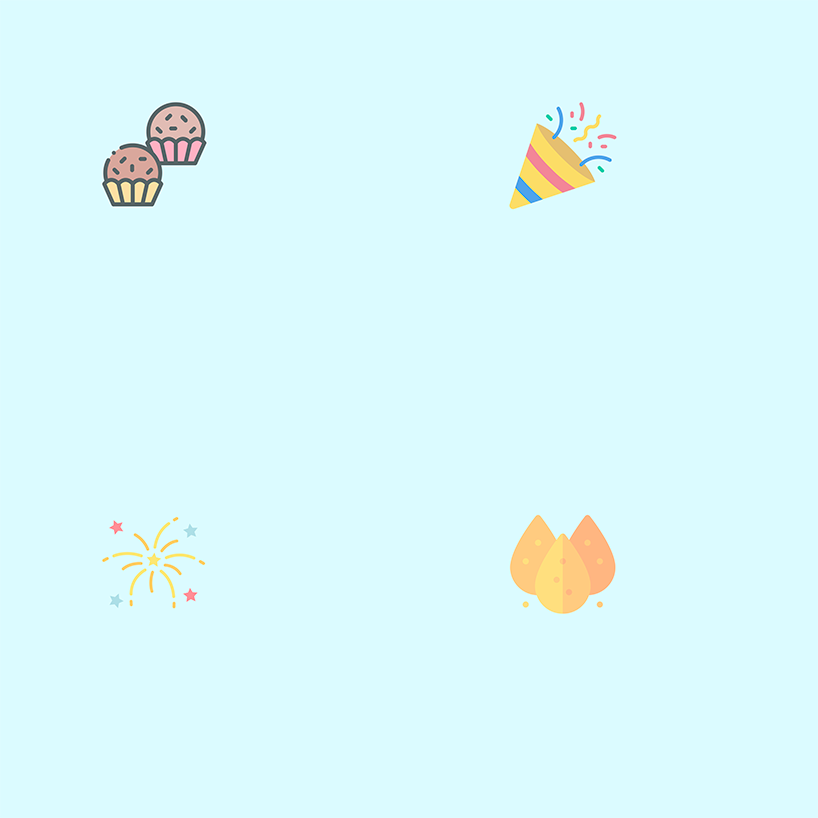
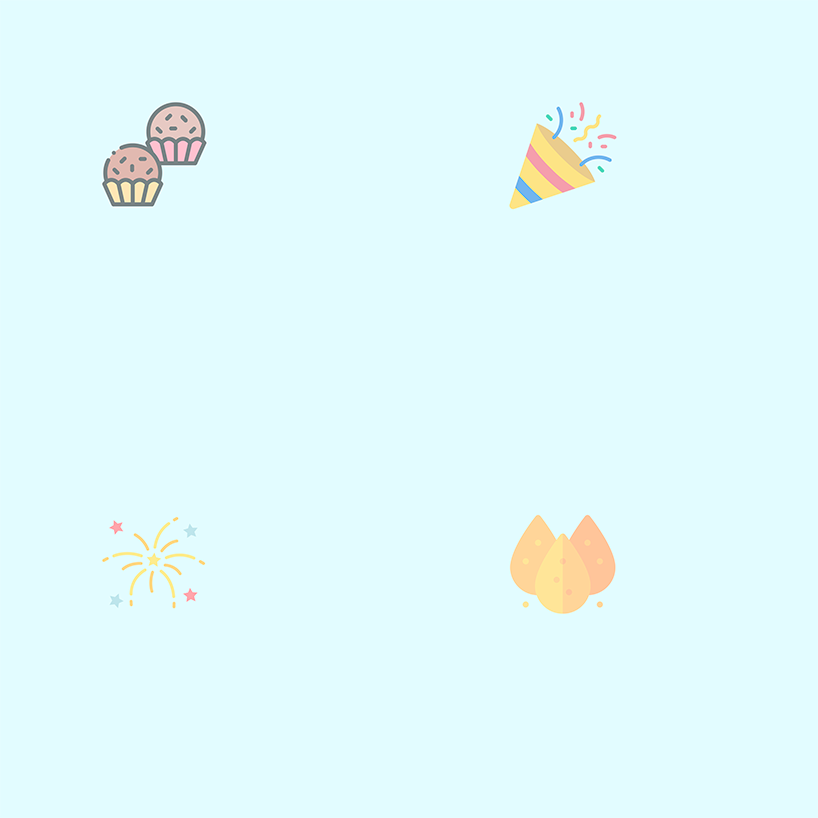
responsividade pág contato

diff --git a/estilos/style.css b/estilos/style.css
@@ -19,7 +19,11 @@ main{
 .icon-bg{
   background-image: url(../img/bg-icons2.png);
   background-repeat: repeat;
-  background-size: 35vw;
+  background-size: 35vw;  
+}
+
+.icon-bg>img{
+  opacity: 0.1;
 }
 
 .projeto h1{
@@ -60,8 +64,9 @@ form input, form textarea{
 }
 
 .form-contato h5{
-  font-size: 3.5rem;
+  font-size: 3rem;
   font-weight: bold;
+  text-wrap: nowrap;
 }
 
 input[type="submit"]{
@@ -69,6 +74,7 @@ input[type="submit"]{
   font-size: 2.5rem;
   font-weight: bold;
   padding: 1.5rem;
+  margin: 1rem;
   border: none;
   border-radius: 1rem;
   cursor: pointer;
@@ -289,13 +295,12 @@ footer {
   display: flex;
   flex-direction: row;
   justify-content: space-between;
-  width: 100%;
+  width: 100vw;
   background-color: #FFC5DE;
   color: black;
   text-align: left;
   border-top: 0.2rem solid rgb(0, 0, 0);
   padding: 1%;
-  position: relative;
 }
 
 /* Adição 29/09 */
@@ -361,16 +366,14 @@ footer>div>nav>ul>li>a:hover {
   border-radius: 0.2rem;
 }
 
-.patrocinadores {
-  width: 30rem;
-  margin: auto;
+.footer-contato{
   display: flex;
-  align-items: center;
+  font-size: 2rem;
 }
 
-.patrocinador {
-  margin-top: 2rem;
-  width: 4rem;
+.socials-icons {
+  margin: 1rem;
+  width: 3.5rem;
 }
 
 .historia {
@@ -458,9 +461,45 @@ footer>div>nav>ul>li>a:hover {
     justify-content: space-between;
     align-items: center;
     padding: 1rem 2rem;
-    background-color: #0000007a;
+    background-color: #FFC5DE;
     color: white;
     border-bottom: solid white 2px;
+  }
+
+  /* footer */
+  
+.nome-footer{
+  display: none;
+}
+
+.socials-icons{
+  width: 3rem;
+  margin: 0.5rem;
+}
+
+.footer-contato{
+  padding: 1rem;
+  align-self: center;
+  justify-self: center;
+}
+
+.footer-contato p{
+  font-size: 1.5rem;
+}
+
+/* Página de contato */
+  .pag-contato{
+    flex-direction: column;
+  }
+
+  .form-contato{  
+    width: 100vw;
+    padding: 2rem;
+  }
+  
+  .mapa{
+    padding: 2rem;
+    border-left: none;
   }
 
   .logo {

diff --git a/contato.html b/contato.html
@@ -88,13 +88,14 @@
   <footer>
     <span class="nome-footer">Bolos da Leila</span>
     <div>
-      <p>Horário de atendimento:<br>seg a sáb das 9h às 18h</p>
+      
       <nav>            
-      <ul class="patrocinadores">
-        <li><img class="patrocinador" src="icone/local.png" alt="icone_mapa"></li>
-        <li><img class="patrocinador" src="icone/whatsapp.png" alt="icone_whatsapp"></li>
-        <li><img class="patrocinador" src="icone/envelope.png" alt="logo_envelope"></li>
-        <li><a href="https://www.instagram.com/leilaabolos/" target="_blank"><img class="patrocinador" src="icone/instagram.png"
+      <ul class="footer-contato">
+        <li><p>Horário de atendimento:<br>seg a sáb das 9h às 18h</p></li>
+        <li><img class="socials-icons" src="icone/local.png" alt="icone_mapa"></li>
+        <li><img class="socials-icons" src="icone/whatsapp.png" alt="icone_whatsapp"></li>
+        <li><img class="socials-icons" src="icone/envelope.png" alt="icone_envelope"></li>
+        <li><a href="https://www.instagram.com/leilaabolos/" target="_blank"><img class="socials-icons" src="icone/instagram.png"
               alt="instagram"></a></li>
       </ul>
       </nav>
